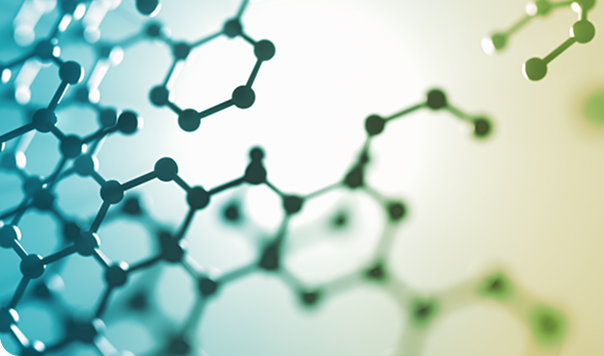
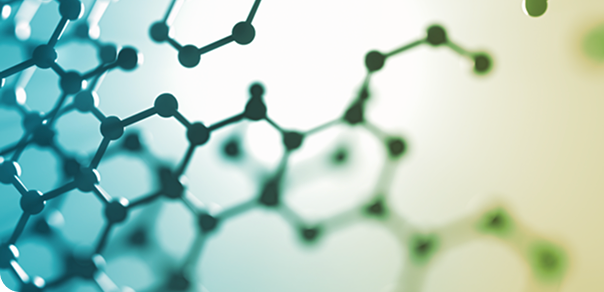
Portal 2206: Fix Globalsearch header image (#698)
* update global search image styling

* fix global search header

Pull request: Portal 2206: Fix Globalsearch header image

diff --git a/src/pages/globalSearch/searchView.js b/src/pages/globalSearch/searchView.js
@@ -76,7 +76,7 @@ async function queryAllAPI(search, offset, pageSize, isPublic) {
   };
   let results = await queryResultAPI(datafieldValue, input, isPublic)
   results = results.map((e) => {
-    return {...e, type: datafieldValue }
+    return { ...e, type: datafieldValue }
   })
 
   return results;
@@ -181,7 +181,7 @@ function searchView(props) {
    */
   const getTabData = async (field, pageSize, currentPage) => {
     const isPublic = true;
-  
+
     // Handle the 'All' tab search separately
     if (field === 'all') {
       const count = countValues(searchCounts);
@@ -202,7 +202,7 @@ function searchView(props) {
           apiQueries += 1;
         }
       }
-      
+
       return (data || []).slice(0, pageSize);
     }
     // Handle all of the other tabs
@@ -479,21 +479,23 @@ function searchView(props) {
     queryCountAPI(searchparam, !authCheck()).then((d) => {
       setSearchCounts(d);
     });
-    
+
   }, []);
 
   return (
     <>
-      <img src={searchBackground} alt="searchBackground" style={{ position: 'absolute', right: '0px', top: '23%', zIndex: -1 }} />
-      <Grid container direction="column" alignItems="center" justifyContent="center" className={classes.heroArea}>
-        <Grid item>
-          <h2 className={classes.searchTitle}>Search Results</h2>
+      <div className={classes.searchArea}>
+        <img src={searchBackground} alt="searchBackground" style={{ position: 'absolute', right: '0px', zIndex: -1 }} />
+        <Grid container direction="column" alignItems="center" justifyContent="center" className={classes.heroArea}>
+          <Grid item>
+            <h2 className={classes.searchTitle}>Search Results</h2>
+          </Grid>
+          <Grid item>
+            <SearchBar value={searchText} clearable={!false} />
+          </Grid>
         </Grid>
-        <Grid item>
-          <SearchBar value={searchText} clearable={!false}/>
-        </Grid>
-      </Grid>
-     
+      </div>
+
 
       <div className={classes.bodyContainer}>
         <Box sx={{ width: '100%', typography: 'body1' }}>

diff --git a/src/pages/globalSearch/styles.js b/src/pages/globalSearch/styles.js
@@ -82,14 +82,17 @@ const styles = () => ({
     left: '149px',
     width: '889px',
     height: '179px',
-    background: '#08838D',
     marginTop: '60px',
     marginBottom: '60px',
+    background: '#08838D',
     borderTopRightRadius: '20px',
     borderBottomLeftRadius: '20px',
     alignItems: 'start',
     paddingLeft: '60px',
     zIndex: '1',
+  },
+  searchArea: {
+    display: 'flex',
   },
   searchTitle: {
     color: '#FFFFFF',